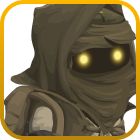
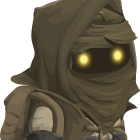
added gif image

Changed region(s): [[0.0, 0.0, 1.0, 1.0]]

diff --git a/assets/css/style.css b/assets/css/style.css
@@ -32,6 +32,7 @@ body {
   margin: auto;
   color: #fff;
   font-family: "Rubik", sans-serif;
+  width: 100%;
 }
 
 h1 {
@@ -438,7 +439,8 @@ li {
   -webkit-box-pack: center;
       -ms-flex-pack: center;
           justify-content: center;
-  background: url("../images/overview-bg.png") no-repeat center;
+  background: -webkit-gradient(linear, left top, left bottom, from(rgba(0, 0, 0, 0.8)), to(rgba(0, 0, 0, 0.8))), url("../images/bg-3.jpg") no-repeat center;
+  background: linear-gradient(180deg, rgba(0, 0, 0, 0.8), rgba(0, 0, 0, 0.8)), url("../images/bg-3.jpg") no-repeat center;
   background-size: cover;
   height: auto;
   padding: 24px;
@@ -539,15 +541,12 @@ li {
   -webkit-box-align: center;
       -ms-flex-align: center;
           align-items: center;
-  margin-top: 60px;
 }
 .overview-section .image-container video {
   width: -webkit-fit-content;
   width: -moz-fit-content;
   width: fit-content;
-  max-height: 340px;
-  border-radius: 12px;
-  margin-bottom: 36px;
+  max-height: 330px;
 }
 
 @media only screen and (max-width: 700px) {
@@ -576,9 +575,8 @@ li {
     height: 450px;
   }
   .overview-section .image-container video {
-    width: 90%;
+    width: 80%;
     max-height: 310px;
-    border-radius: 12px;
   }
 }
 @media (max-width: 470px) {
@@ -776,6 +774,10 @@ li {
       -ms-grid-row-align: center;
       align-self: center;
   margin-bottom: 24px;
+}
+.gameplay-item img.gif-img {
+  width: 80%;
+  height: auto;
 }
 .gameplay-item h4 {
   margin-bottom: 12px;

diff --git a/assets/scss/style.scss b/assets/scss/style.scss
@@ -35,6 +35,7 @@ body {
     margin: auto;
     color: #fff;
     font-family: 'Rubik', sans-serif;
+    width: 100%;
   }
   
 h1 {
@@ -368,7 +369,7 @@ li{
     @include row-column;
     margin-top: unset;
     justify-content: center;
-    background: url('../images/overview-bg.png') no-repeat center;
+    background: linear-gradient(180deg, rgba(0, 0, 0, 0.8), rgba(0, 0, 0, 0.8)), url('../images/bg-3.jpg') no-repeat center;
     background-size: cover;
     height: auto;
     padding: 24px;
@@ -435,12 +436,10 @@ li{
         display: flex;
         justify-content: center;
         align-items: center;
-        margin-top: 60px;
+        // margin-top: 60px;
         video{
             width: fit-content;
-            max-height: 340px;
-            border-radius: 12px;
-            margin-bottom: 36px;
+            max-height: 330px;
         }
     }
 }
@@ -466,9 +465,8 @@ li{
             margin: auto;
             height: 450px;
             video{
-                width: 90%;
+                width: 80%;
                 max-height: 310px;
-                border-radius: 12px;
             }
         }
 
@@ -660,6 +658,10 @@ li{
     .img-icon{
         align-self: center;
         margin-bottom: 24px;
+    }
+    img.gif-img{
+        width: 80%;
+        height: auto;
     }
 
     h4{

diff --git a/index.html b/index.html
@@ -158,7 +158,7 @@
 
                 <div class="gameplay-item" data-aos="fade-up" data-aos-duration="700" data-aos-easing="ease-in-quad">
                     <div class="img-icon">
-                        <img src="assets/images/game-char.png" alt="iconic image for selecting game character">
+                        <img src="assets/images/game-char.gif" class="gif-img" alt="iconic image for selecting game character">
                     </div>
                     <div class="text-description">
                         <h4>CHOOSE A CHARACTER TO PLAY</h4>
